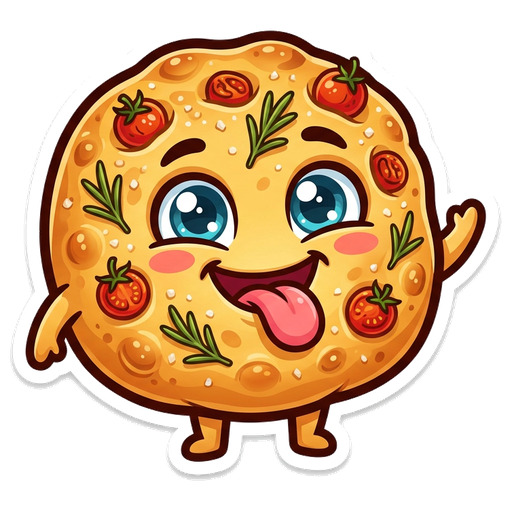
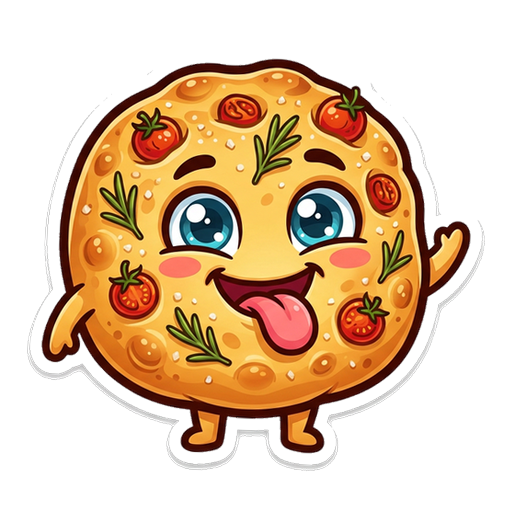
fix: perfectly straighten, center and balance classic focaccia skin

diff --git a/src/App.tsx b/src/App.tsx
@@ -45,7 +45,6 @@ import {
   type CartItem,
   type JarOrderRecord,
 } from './game/donate';
-import focacciaImg from './assets/focaccia.png';
 import goldenImg from './assets/golden.png';
 import monoGuideImg from './assets/mono-guide.jpg';
 import catImg from './assets/cat.png';
@@ -5034,10 +5033,10 @@ export default function App() {
           {challenge.result === null && (
             <button
               onClick={catchChallengeTarget}
-              className="absolute w-20 h-20 rounded-full overflow-hidden border-4 border-amber-400 shadow-[0_0_40px_rgba(251,191,36,0.6)] animate-bob active:scale-90 transition-transform cursor-pointer"
+              className="absolute w-20 h-20 rounded-full overflow-hidden border-4 border-amber-400 shadow-[0_0_40px_rgba(251,191,36,0.6)] animate-bob active:scale-90 transition-transform cursor-pointer bg-stone-950/80"
               style={{ left: `calc(${challenge.x}% - 40px)`, top: `calc(${challenge.y}% - 40px)` }}
             >
-              <img src={focacciaImg} alt="" className="w-full h-full object-cover pointer-events-none" draggable={false} />
+              <img src={activeSkin.img} alt="" className="w-full h-full object-cover pointer-events-none" draggable={false} />
             </button>
           )}
           {challenge.result === 'pending' && (
@@ -9447,7 +9446,7 @@ export default function App() {
                 onClick={handleClick}
                 className={cn(
                   'relative w-48 h-48 sm:w-56 sm:h-56 rounded-full overflow-hidden cursor-pointer transition-all duration-100 active:scale-95',
-                  'border-[5px] shadow-[0_0_40px_rgba(251,191,36,0.3),inset_0_-4px_12px_rgba(0,0,0,0.2)]',
+                  'border-[5px] shadow-[0_0_40px_rgba(251,191,36,0.3),inset_0_-4px_12px_rgba(0,0,0,0.2)] bg-stone-950/80',
                   squish && 'scale-90',
                   portalWarping && 'animate-portal-warp',
                   frenzy > 0 ? 'border-orange-400 animate-spin-slow shadow-[0_0_60px_rgba(249,115,22,0.5)]' : 'border-amber-400/80',
